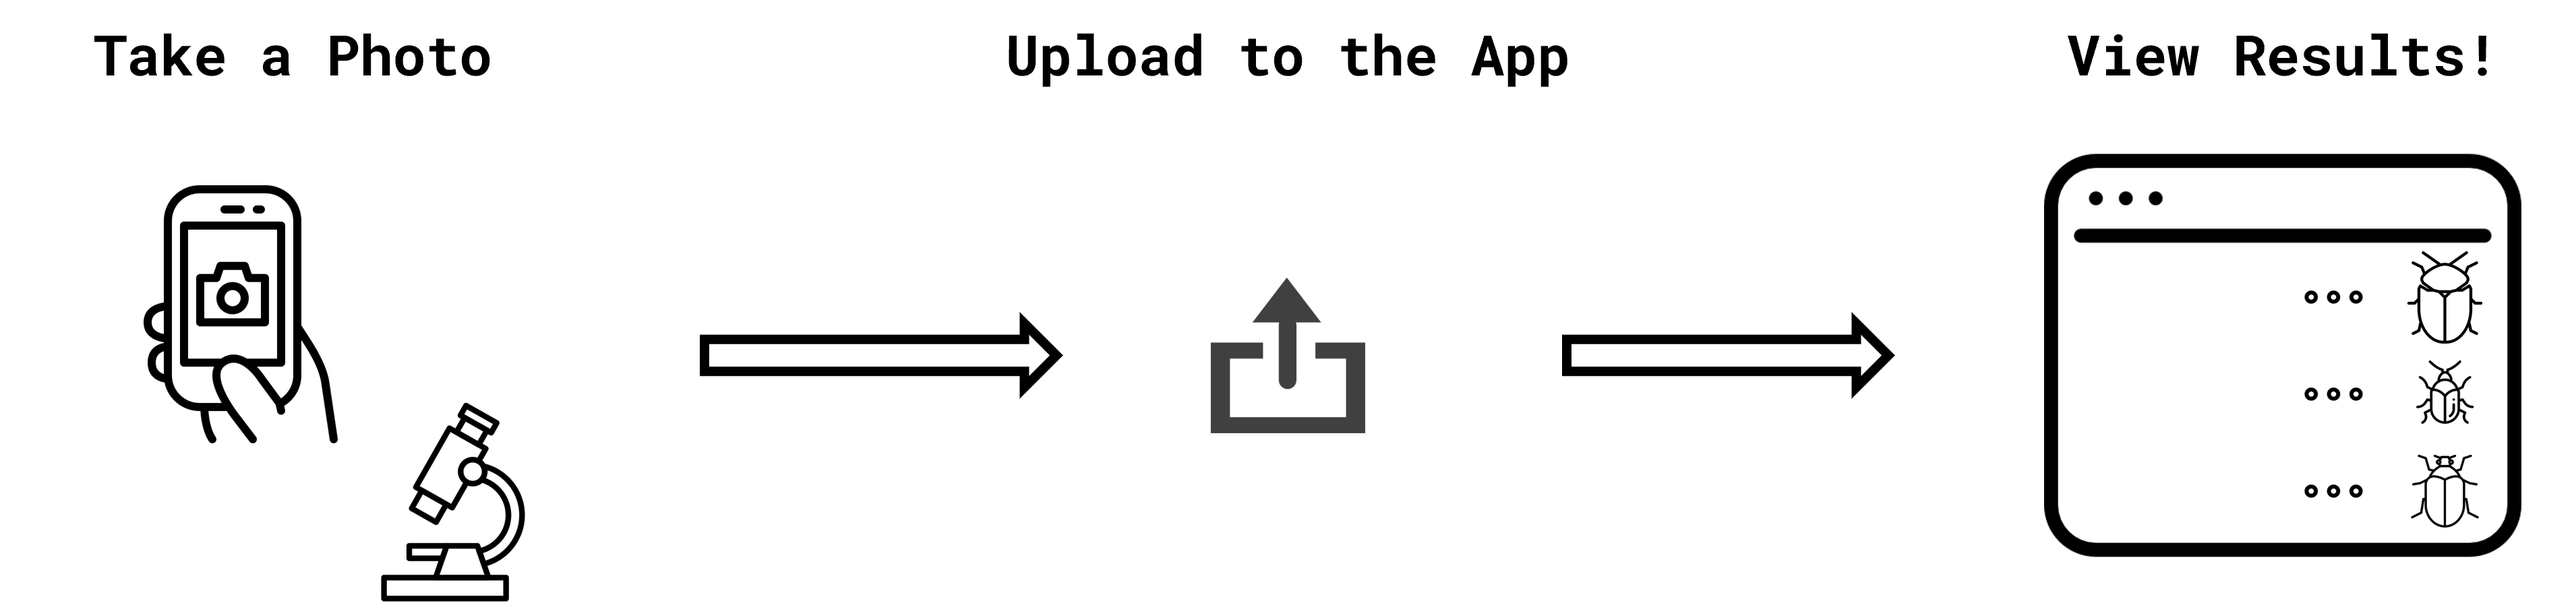
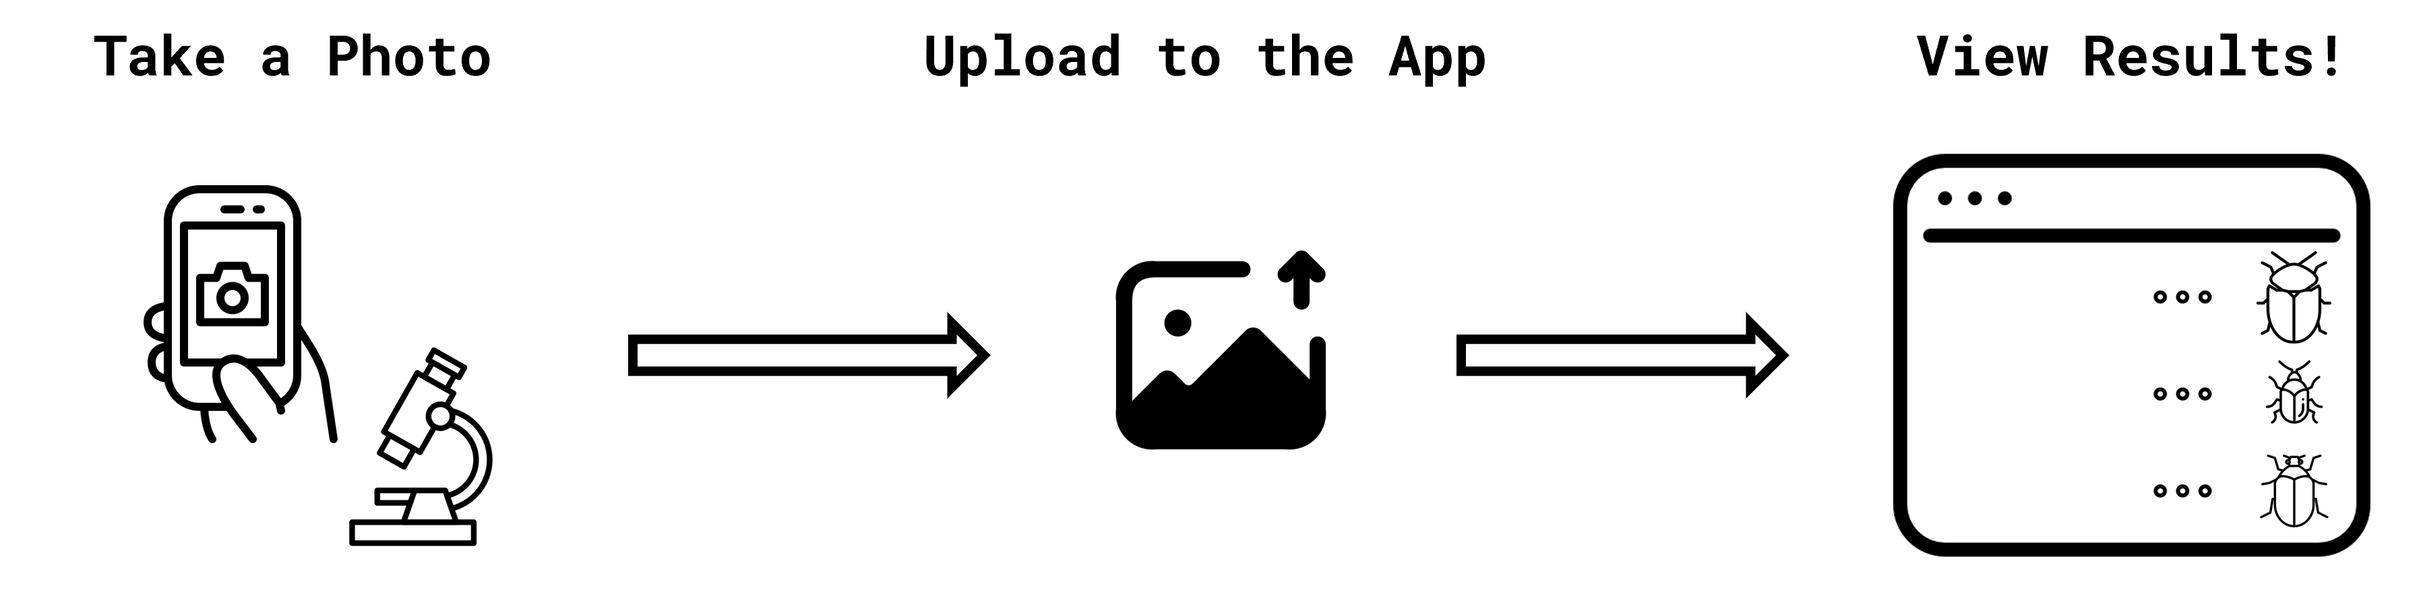
Updated the graphic for the home page and the css controlling it for a cleaner look (per test user recommendation)

diff --git a/port_inspector/port_inspector_app/templates/index.html b/port_inspector/port_inspector_app/templates/index.html
@@ -70,7 +70,8 @@
         height: auto;
     }
     #use-case-banner {
-        width: 100%;
+        width: 90%;
+        margin: auto;
         height: auto;
         background-color: whitesmoke;
     }
